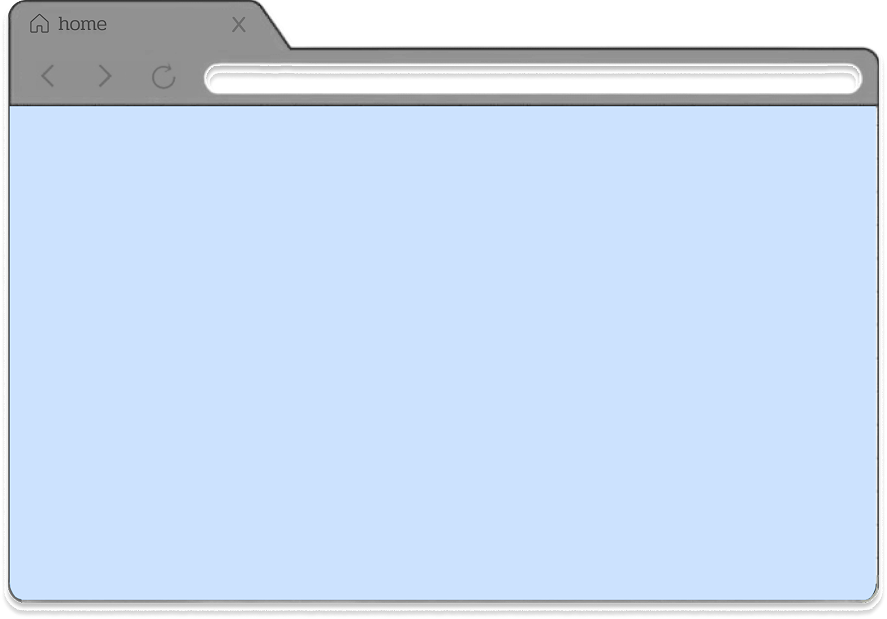
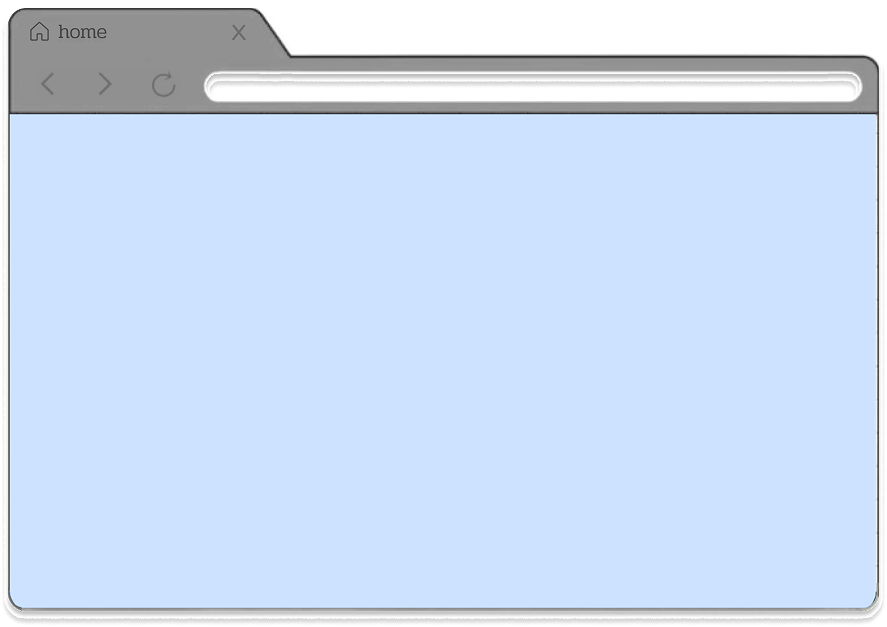
change: updating about tab appearance

Changed region(s): [[0.0, 0.0307, 1.0, 0.1842], [0.0, 0.0, 0.3044, 0.0614]]

diff --git a/styles.css b/styles.css
@@ -204,7 +204,7 @@ h1 {
   margin: 0;
   color: #595959;
   font-family: Pridi;
-  font-size: clamp(3rem, 6vw, 5.3rem);
+  font-size: clamp(5rem, 6vw, 5.3rem);
   font-style: normal;
   font-weight: 300;
   line-height: 0.94;
@@ -231,12 +231,12 @@ h1 em {
   margin: 14px 0 41px;
   color: #909090;
   line-height: 1;
-text-shadow: 0 4px 2.5px rgba(0, 0, 0, 0.06);
-      font-family: Pridi;
+  text-shadow: 0 4px 2.5px rgba(0, 0, 0, 0.06);
+  font-family: Pridi;
   letter-spacing: -0.9px;
-font-family: Pridi;
-font-style: normal;
-font-weight: 300;
+  font-family: Pridi;
+  font-style: normal;
+  font-weight: 300;
 }
 
 .launchers {
@@ -253,9 +253,9 @@ font-weight: 300;
   cursor: pointer;
   display: grid;
   place-items: center;
-  font-size: 16px;
+  font-size: 17px;
   font-weight: 300;
-text-shadow: 0 2px 1.6px rgba(0, 0, 0, 0.22);
+  text-shadow: 0 2px 1.6px rgba(0, 0, 0, 0.23);
   transition: transform .2s;
 }
 
@@ -274,8 +274,8 @@ text-shadow: 0 2px 1.6px rgba(0, 0, 0, 0.22);
 }
 
 .launchers img {
-  width: 84px;
-  height: 78px;
+  width: 74px;
+  height: 68px;
   object-fit: contain;
   transition: transform .2s;
 }
@@ -312,15 +312,15 @@ text-shadow: 0 2px 1.6px rgba(0, 0, 0, 0.22);
 }
 
 .panel header {
-  height: 30px;
+  height: 40px;
   padding: 2px 11px;
   display: flex;
   align-items: center;
   gap: 4px;
   background: var(--panel-header-bg);
   border-bottom: 2px solid var(--panel-header-border);
-  color: #FFF;
-  font-size: 15px;
+  color: #6b6c6e;
+  font-size: 18px;
   cursor: grab;
   user-select: none;
   font-family: "Plus Jakarta Sans";
@@ -331,11 +331,16 @@ text-shadow: 0 2px 1.6px rgba(0, 0, 0, 0.22);
   cursor: grabbing
 }
 
-.panel header span { margin-right: auto }
+.panel header span { 
+  margin-left: 10px; 
+  margin-right: auto;
+  font-weight: 600; 
+}
 
 .panel header button {
   background: none;
   border: 0;
+  margin-bottom: 4px;
   color: #6b6c6e;
   font-size: 23px;
   line-height: 1;
@@ -376,7 +381,7 @@ text-shadow: 0 2px 1.6px rgba(0, 0, 0, 0.22);
 .about {
   left: 4vw;
   top: 5vh;
-  width: min(550px, calc(100vw - 34px));
+  width: min(560px, calc(100vw - 34px));
   height: min(698px, calc(100vh - 50px))
 }
 
@@ -405,7 +410,8 @@ h2 {
   font-size: 25px;
   font-weight: 300;
   line-height: 1.2;
-  margin: 0 0 14px
+  margin: 0 0 14px;
+  color: #6b85af;
 }
 
 h3 {
@@ -416,15 +422,20 @@ h3 {
 
 p {
   font-family: "Plus Jakarta Sans", sans-serif;
-  font-size: 14px;
-  line-height: 1.7;
-  margin: 0 0 18px
+  font-size: 16px;
+  line-height: 1.9;
+  margin: 0 0 5px
 }
 
 hr {
   border: 0;
   border-top: 1px solid #a9c6ed;
-  margin: 36px -43px 28px
+  margin: 36px -5px 28px
+}
+
+.highlight {
+  color: #6b85af;
+  font-weight: 600
 }
 
 .profile {
@@ -432,12 +443,12 @@ hr {
   gap: 20px;
   align-items: center;
   justify-content: center;
-  margin-bottom: 25px
+  margin-bottom: 30px
 }
 
 .avatar {
-  width: 95px;
-  height: 95px;
+  width:140px;
+  height: 140px;
   border-radius: 50%;
   display: grid;
   background: linear-gradient(135deg, #f7fbff, #7aa3b4);
@@ -446,13 +457,12 @@ hr {
 
 .profile h2 {
   margin: 0;
-  font-size: 29px
+  font-size: 36px
 }
 
 .profile p {
   margin: 0;
-  color: #72829b;
-  font-size: 14px
+  font-size: 16px
 }
 
 ul {
@@ -461,6 +471,36 @@ ul {
   line-height: 2;
   margin: 7px 0;
   padding-left: 20px
+}
+
+.panel-content h3 {
+  margin: 0 0 8px;
+  font-family: "Roboto Mono", monospace;
+  font-size: 22px;      /* bump up from 16px if you want it larger, like your screenshot */
+  font-weight: 700;
+}
+
+.entry {
+  border-left: 4px solid #5e6e8d2c;
+  padding: 0.5rem 0 0.5rem 1rem;
+  margin-bottom: 1rem;
+}
+
+.entry .degree {
+  font-family: "Plus Jakarta Sans", sans-serif;
+  font-weight: 300;
+  font-size: 16px;
+  line-height: 1.4;
+  color: #515151;
+  margin: 0;
+}
+
+.entry .entry-note {
+  font-size: 13px;
+  line-height: 1.4;
+  color: #909090;
+  margin: 4px 0 0;
+  text-align: left;
 }
 
 .panel article {

diff --git a/index.html b/index.html
@@ -7,6 +7,8 @@
         <link rel="preconnect" href="https://fonts.googleapis.com" />
         <link rel="preconnect" href="https://fonts.gstatic.com" crossorigin />
         <link href="https://fonts.googleapis.com/css2?family=Plus+Jakarta+Sans:wght@400;500;600;700&family=Pridi:wght@300;500&display=swap" rel="stylesheet" />
+        <link href="https://fonts.googleapis.com/css2?family=Roboto+Mono:ital,wght@0,100..700;1,100..700&display=swap" rel="stylesheet">
+        <link href="https://fonts.googleapis.com/css2?family=Roboto+Mono:wght@700&display=swap" rel="stylesheet">
         <link rel="stylesheet" href="styles.css" />
         <script src="./script.js" defer></script>
         <link rel="icon" type="image/png" href="images/site icon.png" />
@@ -52,7 +54,7 @@
             </section>
             <section class="panel about" id="about">
                 <header data-drag>
-                    <span>about me</span>
+                    <span>about</span>
                     <button data-minimize="about" aria-label="Minimize about">–</button>
                     <button data-close="about" aria-label="Close about">×</button>
                 </header>
@@ -68,20 +70,21 @@
                         UI/UX, web design, game &amp; software development -- pretty much everything creative!
                     </p>
                     <hr />
-                    <h3>Technical Skills</h3>
-                    <p><b>Languages:</b> HTML, CSS, C, C++, Python, Java, TypeScript, LaTeX, RISC-V Assembly</p>
-                    <p>
-                        <b>Tools/Frameworks:</b> Git, GitHub, React, VS Code, IntelliJ, Microsoft Office, Expo, UML,
-                        Figma, Procreate, Clip Studio Paint, Blender, Wix
-                    </p>
+                    <h3>EDUCATION</h3>
+
+                    <div class="entry">
+                    <p class="degree">Bachelor of Science in Computing Science</p>
+                    <p class="entry-note">Expected graduation: 2028</p>
+                    </div>
+
                     <hr />
-                    <h3>Other interests</h3>
-                    <p>I love…</p>
+                    <h3>INTERESTS</h3>
+                    <p>You can always find me...</p>
                     <ul>
-                        <li>Drawing!</li>
-                        <li>Music! If I could have earbuds on all day I would</li>
-                        <li>Reading &amp; playing video games when I’m free!</li>
-                        <li>Seventeen &lt;3</li>
+                        <li>Listening to <span class="highlight">music</span>; if I could have earbuds on all day I would</li>
+                        <li>Reading <span class="highlight">webtoons</span> and playing <span class="highlight">video games</span></li>
+                        <li><span class="highlight">Drawing</span> everything</li>
+                        <li>Spending time with my <span class="highlight">friends</span>!</li>
                     </ul>
                 </div>
                 <span class="resize-handle" data-resize aria-hidden="true"></span>

diff --git a/script.js b/script.js
@@ -214,7 +214,6 @@ const boot = document.querySelector("#boot");
             /* ---------- right-click desktop context menu ---------- */
             const menuItems = [
                 { label: "🔄 refresh", action: () => location.reload() },
-                { label: "✨ you found a secret!", action: () => toast("hehe, thanks for exploring ♡") },
             ];
             let menuEl = null;
             const closeMenu = () => {
